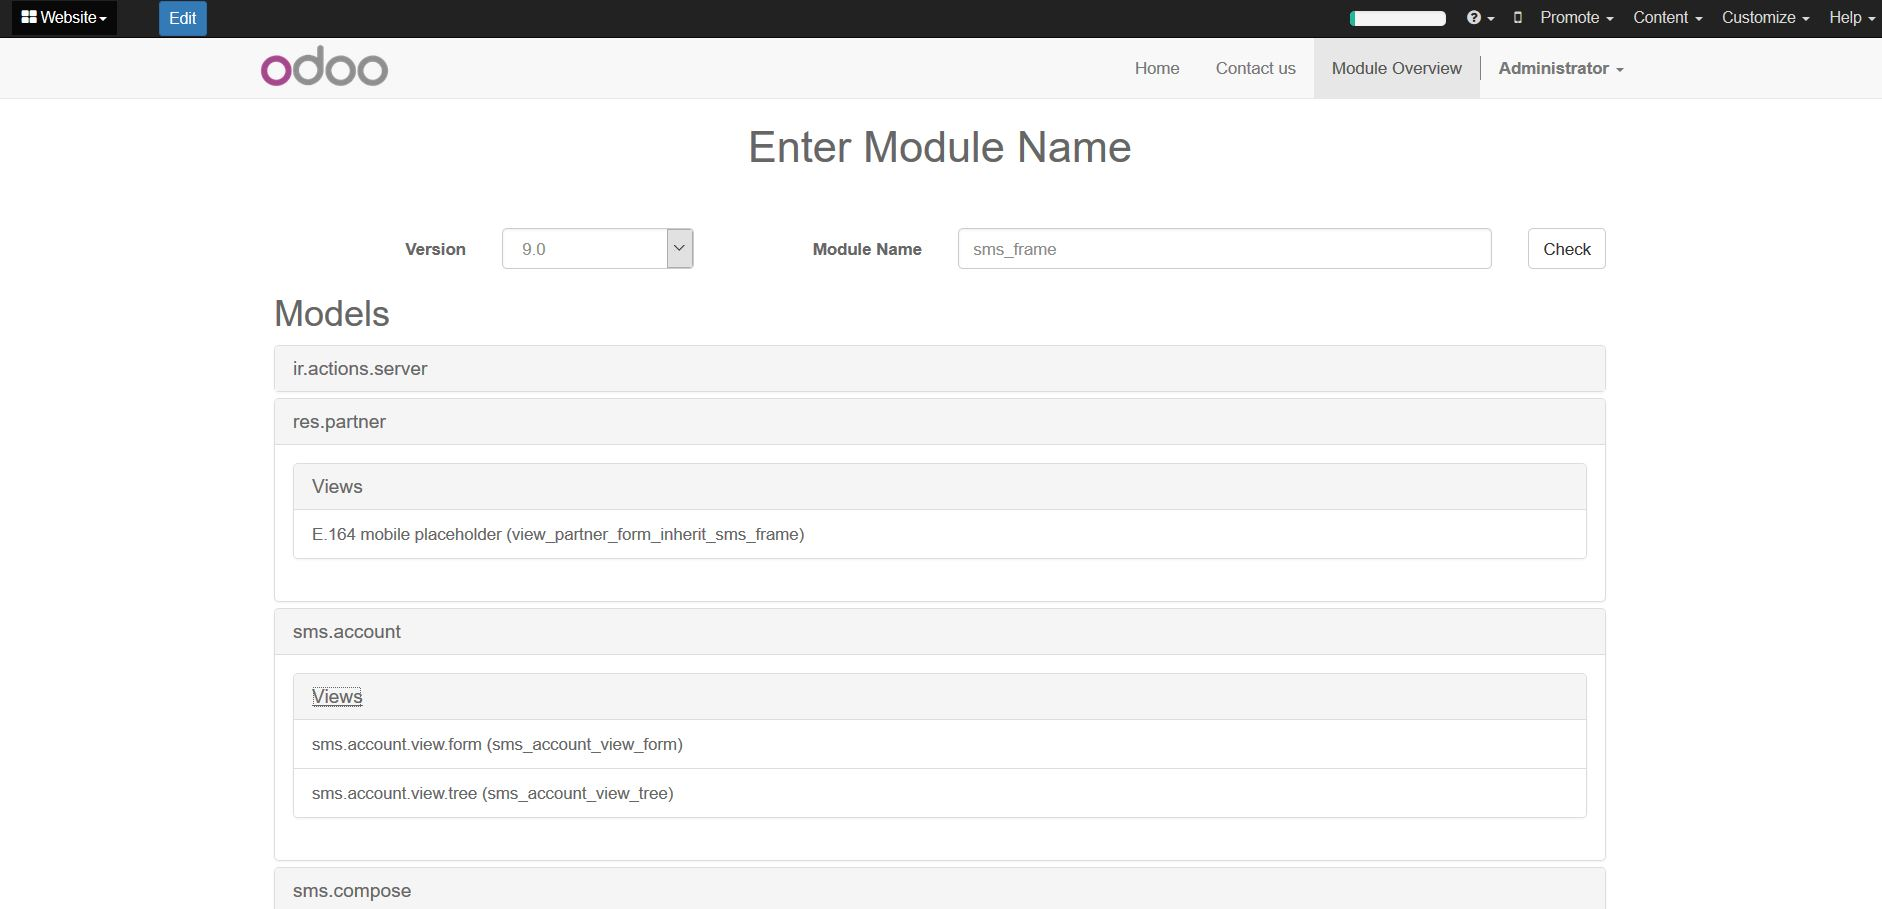
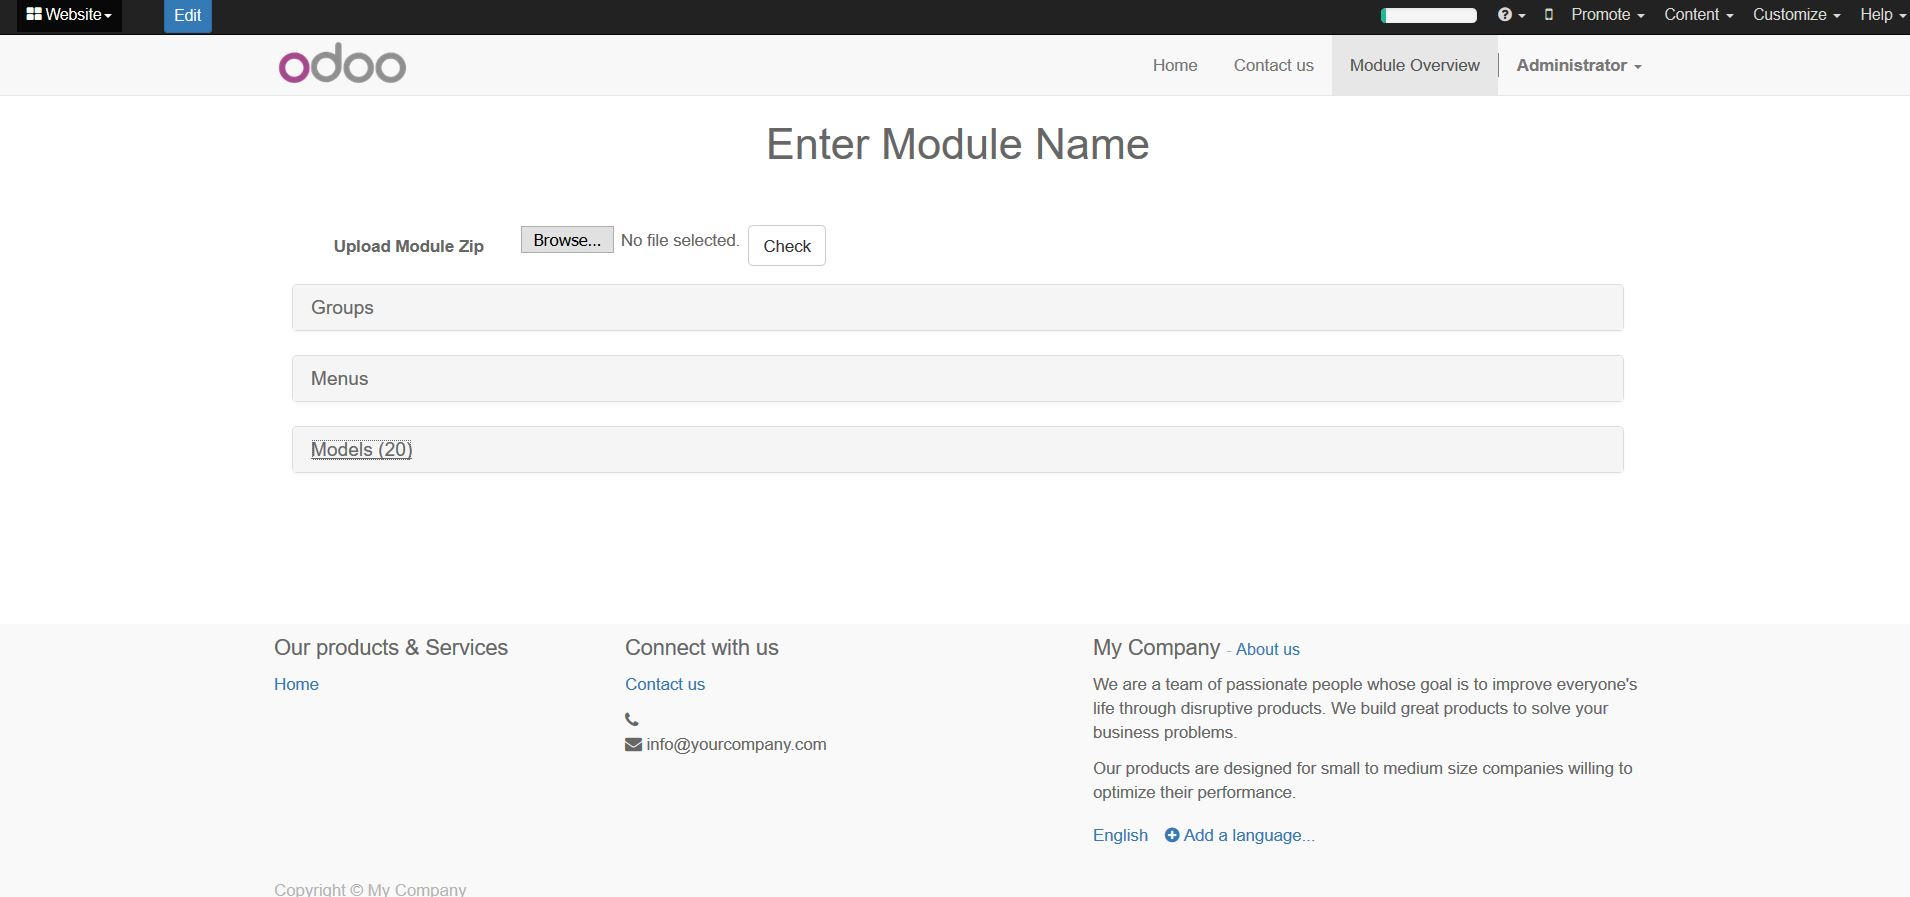
Access rules grouped by group and model
Access rules grouped by group and model

diff --git a/module_overview/static/description/index.html b/module_overview/static/description/index.html
@@ -1,7 +1,7 @@
 <div style="margin-left:100px;margin-right:100px;">
 <h2>Description</h2>
 Gives an overview of what a module does / has in it<br>
-Gives you a list of models, views, menu's and python functions<br/>
+Gives you a list of models, views, menu's<br/>
 <br>
 Find a bug? feature idea? send an email to steven@sythiltech.com.au<br>
 </div>

diff --git a/module_overview/models/module_overview.py b/module_overview/models/module_overview.py
@@ -4,23 +4,67 @@ from openerp import api, fields, models
 class ModuleOverview(models.Model):
 
     _name = "module.overview"
+    _description = "Module Overview"
     
     name = fields.Char(string="Module Name")
     models_ids = fields.One2many('module.overview.model', 'mo_id', string="Models")
-    menu_ids = fields.One2many('module.overview.menu', 'mo_id', string="Menus")
-    access_ids = fields.One2many('module.overview.access', 'mo_id', string="Access Rules")
     model_count = fields.Integer(string="Model Count", compute="_compute_model_count")
+    menu_ids = fields.One2many('module.overview.menu', 'mo_id', string="Menus")
+    access_ids = fields.One2many('module.overview.access', 'mo_id', string="Depricted")
+    group_ids = fields.One2many('module.overview.group', 'mo_id', string="Groups")
 
     @api.one
     @api.depends('models_ids')
     def _compute_model_count(self):
         self.model_count = len(self.models_ids)
+
+class ModuleOverviewGroup(models.Model):
+
+    _name = "module.overview.group"
+    _description = "Module Overview Group"
+    
+    mo_id = fields.Many2one('module.overview', string="Module Overview", ondelete="cascade")
+    x_id = fields.Char(string="XML ID")
+    name = fields.Char(string="Name")
+    access_ids = fields.One2many('module.overview.group.access', 'mog_id', string="Group Permissions")    
+
+class ModuleOverviewGroupAccess(models.Model):
+
+    _name = "module.overview.group.access"
+    
+    mog_id = fields.Many2one('module.overview.group', string="Module Overview", ondelete="cascade")
+    model_id = fields.Many2one('module.overview.model', string="Model")
+    perm_read = fields.Boolean(string="Read Permmision")
+    perm_write = fields.Boolean(string="Write Permmision")
+    perm_create = fields.Boolean(string="Create Permmision")
+    perm_unlink = fields.Boolean(string="Delete Permmision")
+    access_string = fields.Char(string="Access String", compute="_compute_access_string")
+    
+    @api.one
+    @api.depends('perm_read', 'perm_write', 'perm_create', 'perm_unlink')
+    def _compute_access_string(self):
+        a_string = ""
+        
+        if self.perm_read:
+            a_string += "Read, "
+
+        if self.perm_write:
+            a_string += "Write, "
+
+        if self.perm_create:
+            a_string += "Create, "
+
+        if self.perm_unlink:
+            a_string += "Delete, "
+            
+        self.access_string = a_string[:-2]
     
 class ModuleOverviewAccess(models.Model):
 
     _name = "module.overview.access"
+    _description = "depricted"
     
-    mo_id = fields.Many2one('module.overview', string="Module Overview")
+    mo_id = fields.Many2one('module.overview', string="Module Overview", ondelete="cascade")
     x_id = fields.Char(string="XML ID")
     name = fields.Char(string="Name")
     model = fields.Char(string="Model")
@@ -53,8 +97,9 @@ class ModuleOverviewAccess(models.Model):
 class ModuleOverviewMenu(models.Model):
 
     _name = "module.overview.menu"
+    _description = "Module Overview Menu"
     
-    mo_id = fields.Many2one('module.overview', string="Module Overview")
+    mo_id = fields.Many2one('module.overview', string="Module Overview", ondelete="cascade")
     name = fields.Char(string="Name")
     x_id = fields.Char(string="XML ID")
     parent = fields.Char(string="Parent Menu")
@@ -62,17 +107,64 @@ class ModuleOverviewMenu(models.Model):
 class ModuleOverviewModel(models.Model):
 
     _name = "module.overview.model"
+    _description = "Module Overview Model"
     
-    mo_id = fields.Many2one('module.overview', string="Module Overview")
+    mo_id = fields.Many2one('module.overview', string="Module Overview", ondelete="cascade")
     name = fields.Char(string="Name")
     view_ids = fields.One2many('module.overview.model.view', 'model_id', string="Views")
+    view_count = fields.Integer(string="View Count", compute="_compute_view_count")
+    access_ids = fields.One2many('module.overview.model.access', 'model_id', string="Access Rules")
+    access_count = fields.Integer(string="Access Count", compute="_compute_access_count")
+
+    @api.one
+    @api.depends('view_ids')
+    def _compute_view_count(self):
+        self.view_count = len(self.view_ids)
+        
+    @api.one
+    @api.depends('access_ids')
+    def _compute_access_count(self):
+        self.access_count = len(self.access_ids)
+        
+class ModuleOverviewModelAccess(models.Model):
+
+    _name = "module.overview.model.access"
+    _description = "Module Overview Model Access"
     
+    model_id = fields.Many2one('module.overview.model', string="Model", ondelete="cascade")
+    name = fields.Char(string="Group Name")
+    x_id = fields.Char(string="XML ID")
+    perm_read = fields.Boolean(string="Read Permmision")
+    perm_write = fields.Boolean(string="Write Permmision")
+    perm_create = fields.Boolean(string="Create Permmision")
+    perm_unlink = fields.Boolean(string="Delete Permmision")   
+    access_string = fields.Char(string="Access String", compute="_compute_access_string")
+    
+    @api.one
+    @api.depends('perm_read', 'perm_write', 'perm_create', 'perm_unlink')
+    def _compute_access_string(self):
+        a_string = ""
+        
+        if self.perm_read:
+            a_string += "Read, "
+
+        if self.perm_write:
+            a_string += "Write, "
+
+        if self.perm_create:
+            a_string += "Create, "
+
+        if self.perm_unlink:
+            a_string += "Delete, "
+            
+        self.access_string = a_string[:-2] 
+ 
 class ModuleOverviewModelView(models.Model):
 
     _name = "module.overview.model.view"
+    _description = "Module Overview Model View"
     
-    model_id = fields.Many2one('module.overview.model', string="Model")
+    model_id = fields.Many2one('module.overview.model', string="Model", ondelete="cascade")
     name = fields.Char(string="Name")
     x_id = fields.Char(string="XML ID")
-    
     

diff --git a/module_overview/controllers/main.py b/module_overview/controllers/main.py
@@ -62,7 +62,7 @@ class ModuleOverView(http.Controller):
             filename, file_extension = os.path.splitext(file_name)
             zippy = myzipfile.open(file_name)
             if file_extension == ".py":
-                _logger.error("not supported")
+                _logger.info("not supported")
                 #self._read_py(zippy.read(), module_overview.id)
             elif file_extension == ".xml":
                 self._read_xml(zippy.read(), module_overview.id)
@@ -109,9 +109,42 @@ class ModuleOverView(http.Controller):
                          
                          colnum += 1
                 
-                    #Create a access rule record using the premade dictionary from the csv
-                    request.env['module.overview.access'].create(row_dict)
+                    group_name = ""
+                    
+                    if row_dict['group'] != "":
+                        group_name = request.env['ir.model.data'].get_object(row_dict['group'].split(".")[0], row_dict['group'].split(".")[1]).name
+       	
+       	            #Create the group if it does exist
+       	            ex_group = request.env['module.overview.group'].search([('x_id','=',row_dict['group'])])
+       	            
+       	            if len(ex_group) == 0:
+       	                my_group = request.env['module.overview.group'].create({'mo_id': m_id, 'name': group_name, 'x_id': row_dict['group']})       	            
+       	            else:
+       	                my_group = ex_group[0]
+       	
+       	            #If model diiesn't exists, create it
+                    ex_model = request.env['module.overview.model'].search([('name','=', self._ref_to_model(row_dict['model']) )])
+                    
+                    if len(ex_model) == 0:
+                        #create the model
+                        my_model = request.env['module.overview.model'].create({'name':self._ref_to_model(row_dict['model']), 'mo_id': m_id})
+                    else:
+                        my_model = ex_model[0]
+
+                    #Add the access rule to the group
+                    request.env['module.overview.group.access'].create({'mog_id':my_group.id, 'model_id': my_model.id, 'perm_read': row_dict['perm_read'], 'perm_write':row_dict['perm_write'], 'perm_create':row_dict['perm_create'], 'perm_unlink':row_dict['perm_unlink']})
+                    
+                    access_dict = {'model_id':my_model.id, 'name': group_name, 'x_id': row_dict['group'], 'perm_read': row_dict['perm_read'], 'perm_write':row_dict['perm_write'], 'perm_create':row_dict['perm_create'], 'perm_unlink':row_dict['perm_unlink']}
+                    request.env['module.overview.model.access'].create(access_dict)
+                        
+                     
+                    
                 rownum += 1
+
+
+    def _ref_to_model(self, ref_string):
+        """Turns 'model_sms_message' into 'sms.message'"""
+        return ref_string.replace("model_","").replace("_",".")
        
     def _read_xml(self, file_content, m_id):
         return_string = ""
